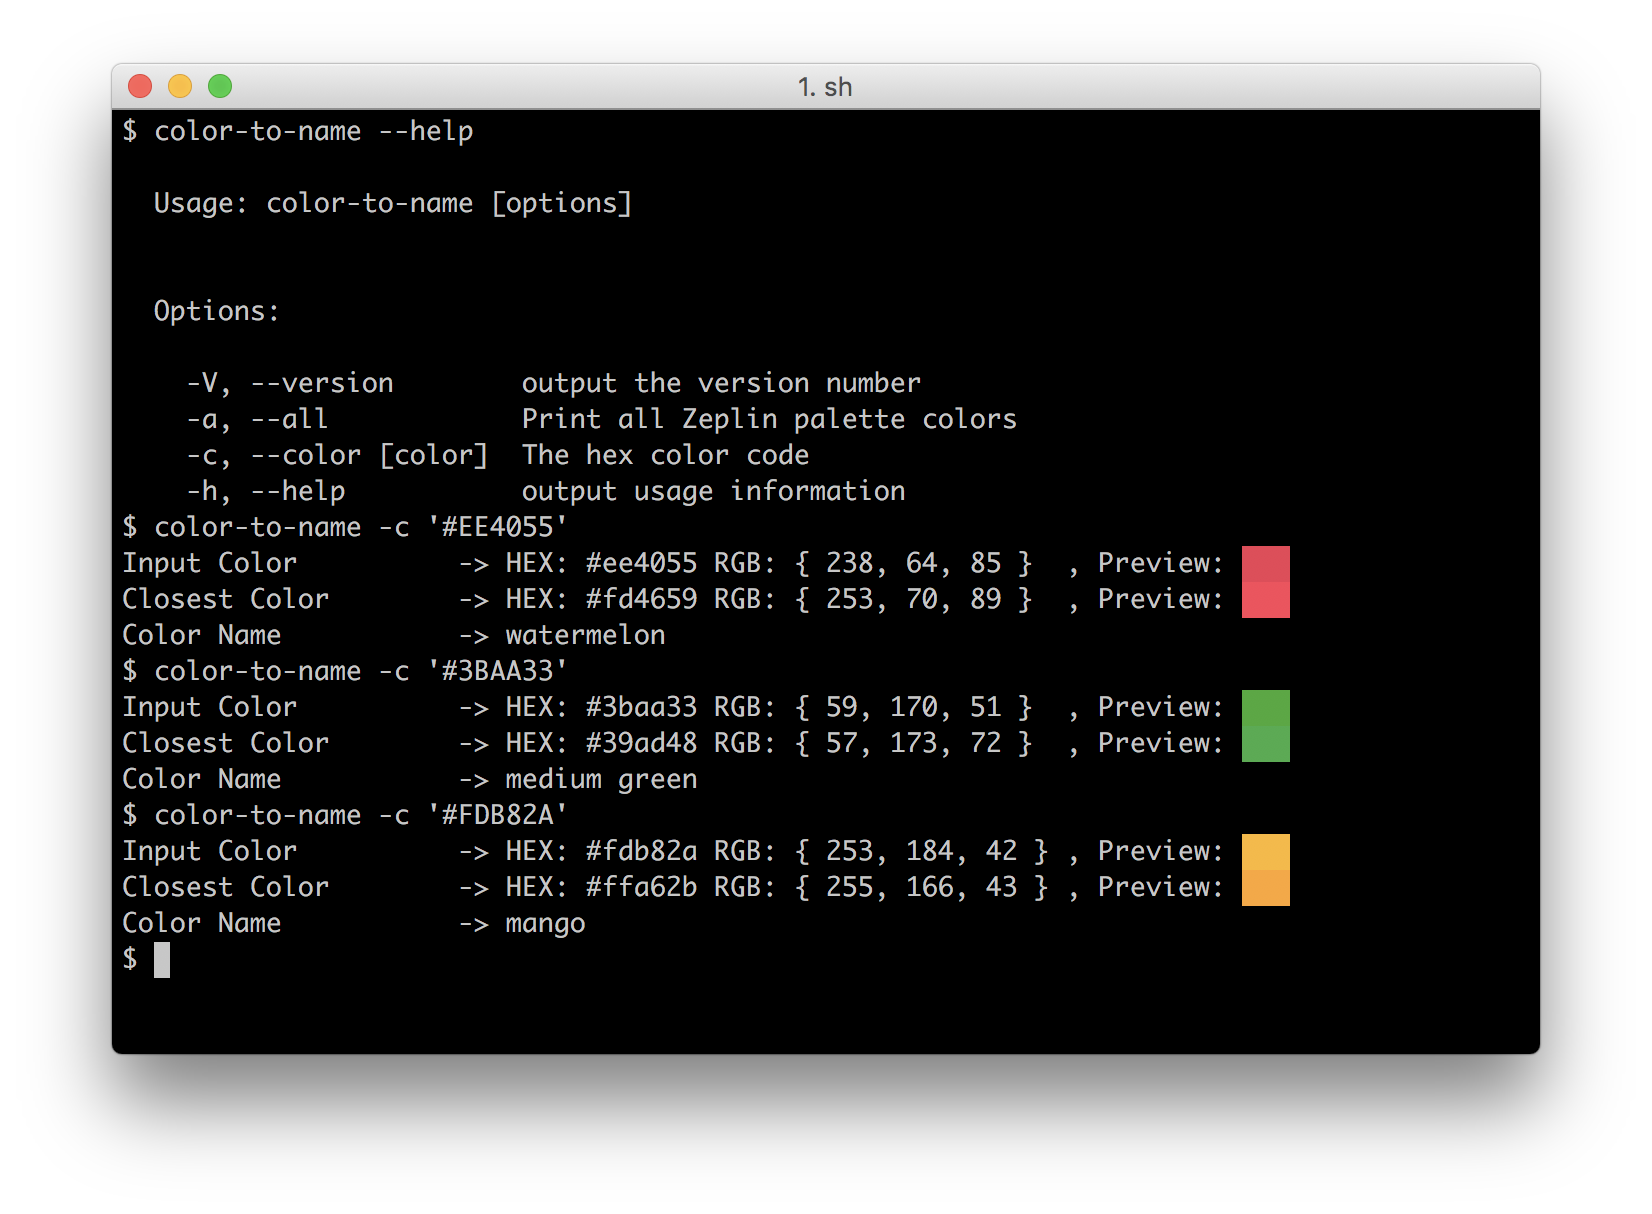
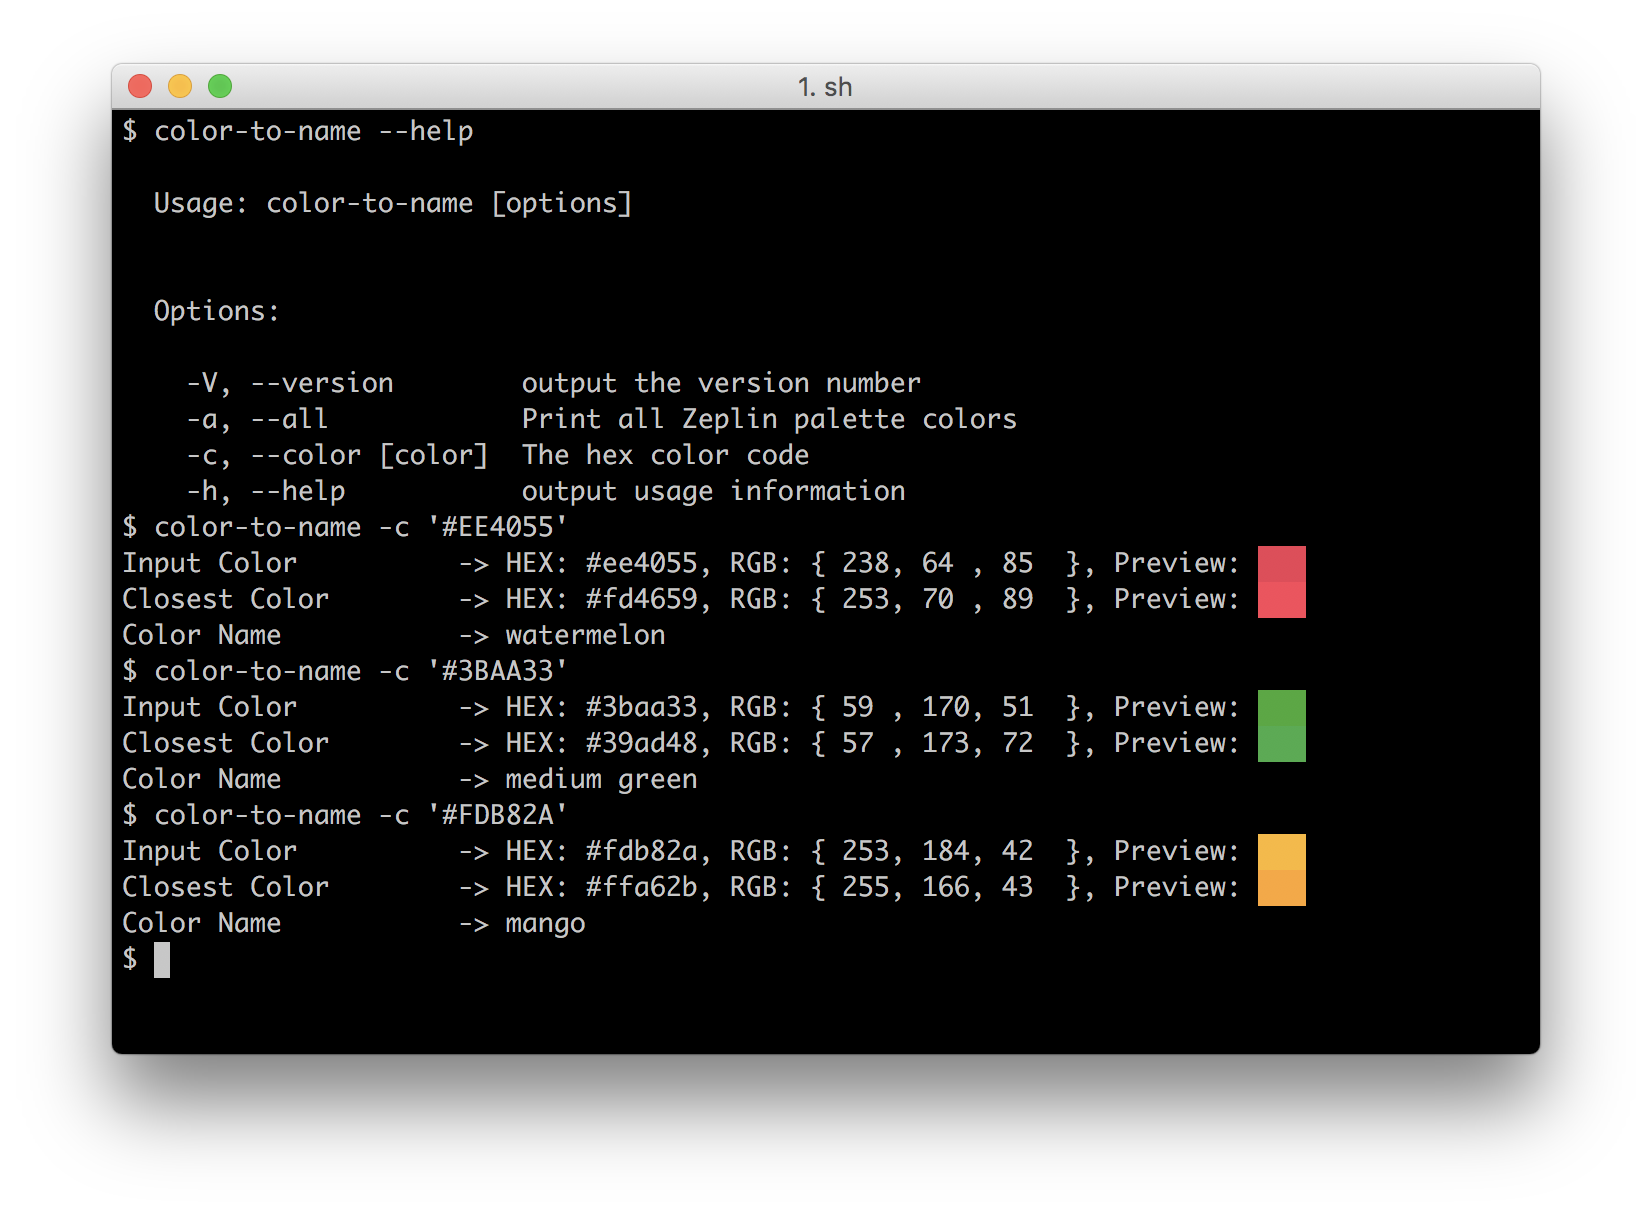
fix console formatting

Changed region(s): [[0.4322, 0.6705, 0.8027, 0.7619], [0.4322, 0.5486, 0.8027, 0.64], [0.4322, 0.4572, 0.8027, 0.5181]]

diff --git a/index.js b/index.js
@@ -11,7 +11,7 @@ function printColor(label, color) {
 
   console.log(`${fixedWidthString(label, 20)} -> ` +
     `HEX: ${color}, ` +
-    `RGB: ${fixedWidthString(`{ ${r}, ${g}, ${b} }`, 17)}, ` +
+    `RGB: { ${fixedWidthString(r, 3)}, ${fixedWidthString(g, 3)}, ${fixedWidthString(b, 3)} }, ` +
     `Preview: ${chalk.hex(color).inverse('   ')}`);
 }
 
